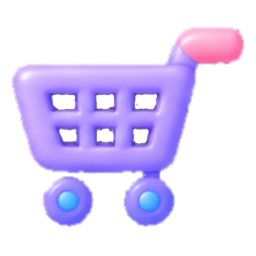
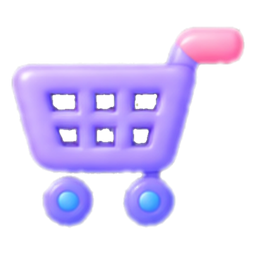
fix: アイコンの欠け修正（玉・おにぎり・おもち等）

diff --git a/OHinasama.html b/OHinasama.html
@@ -175,7 +175,7 @@ img.svc-icon{width:44px;height:44px;object-fit:contain;display:block;margin:0 au
 <div class="app">
   <div class="topbar">
     <div class="topbar-brand">OHinasama</div>
-    <span style="cursor:pointer;display:flex;" onclick="openStaff()"><img src="icons/site/lock.png?v=3" alt="スタッフ" style="width:30px;height:30px;"></span>
+    <span style="cursor:pointer;display:flex;" onclick="openStaff()"><img src="icons/site/lock.png?v=4" alt="スタッフ" style="width:30px;height:30px;"></span>
   </div>
   <div class="scroll-area">
     <div id="p-home" class="page active">
@@ -184,12 +184,12 @@ img.svc-icon{width:44px;height:44px;object-fit:contain;display:block;margin:0 au
         <div class="deco" style="width:65px;height:65px;background:#b0a0f0;bottom:0;left:-10px;"></div>
         <div class="logo-ring"><img src="icons/site/paw.png?v=2" alt="" style="width:50px;height:50px;object-fit:contain;"></div>
         <div class="brand-hero">OHinasama</div>
-        <div class="tagline">ふわふわスクイーズの専門ショップ <img class="ico" src="icons/site/sakura.png?v=3" alt=""></div>
+        <div class="tagline">ふわふわスクイーズの専門ショップ <img class="ico" src="icons/site/sakura.png?v=4" alt=""></div>
       </div>
       <div class="divider"></div>
-      <div class="sec-title"><img class="ico" src="icons/site/tulip.png?v=3" alt=""> OHinasamaについて</div>
+      <div class="sec-title"><img class="ico" src="icons/site/tulip.png?v=4" alt=""> OHinasamaについて</div>
       <div class="bubble"><p>OHinasamaは、<strong>スクイーズ（やわらかくてもちもちのおもちゃ）</strong>を専門に扱うショップです。<br><br>お買い物は<strong>ライブ配信</strong>でおこないます。リアルタイムでかわいいスクイーズたちをご覧いただけます！🎥✨</p></div>
-      <div class="sec-title"><img class="ico" src="icons/site/ribbon.png?v=3" alt=""> サービス内容</div>
+      <div class="sec-title"><img class="ico" src="icons/site/ribbon.png?v=4" alt=""> サービス内容</div>
       <div class="svc-grid">
         <div class="svc-card"><img class="svc-icon" src="icons/site/camera.png?v=2" alt=""><div class="svc-name">ライブ配信</div><div class="svc-desc">リアルタイムでスクイーズをご覧いただけます！</div></div>
         <div class="svc-card"><img class="svc-icon" src="icons/site/paw.png?v=2" alt=""><div class="svc-name">スクイーズ販売</div><div class="svc-desc">ふわふわもちもちのスクイーズをたくさんご用意！</div></div>
@@ -204,19 +204,19 @@ img.svc-icon{width:44px;height:44px;object-fit:contain;display:block;margin:0 au
       <div class="flow-box"><div class="step-num">3</div><div class="step-text"><strong>お気に入りをお選び</strong><br>気になるスクイーズを教えてね💕</div></div>
       <div class="arr">▼</div>
       <div class="flow-box"><div class="step-num">4</div><div class="step-text"><strong>お支払い &amp; お届け</strong><br>確認が終わったらお届けします🎁</div></div>
-      <div style="margin-top:1rem;" class="sec-title"><img class="ico" src="icons/site/clipboard.png?v=3" alt=""> ショップ情報</div>
+      <div style="margin-top:1rem;" class="sec-title"><img class="ico" src="icons/site/clipboard.png?v=4" alt=""> ショップ情報</div>
       <div class="info-row"><span style="font-size:1.1rem;">🕐</span><div class="info-text"><strong>営業時間</strong>お問い合わせ時にご確認ください</div></div>
       <div class="info-row"><span style="font-size:1.1rem;">🎥</span><div class="info-text"><strong>販売方法</strong>ライブ配信でのみ対応しております</div></div>
-      <div class="info-row"><img src="icons/site/sakura.png?v=3" alt="" style="width:22px;height:22px;"><div class="info-text"><strong>ご注意</strong>予約制ではありません。お気軽にご連絡ください♪</div></div>
+      <div class="info-row"><img src="icons/site/sakura.png?v=4" alt="" style="width:22px;height:22px;"><div class="info-text"><strong>ご注意</strong>予約制ではありません。お気軽にご連絡ください♪</div></div>
       <div class="ftr">
         <div class="ftr-logo">OHinasama</div>
-        <div style="font-size:0.66rem;color:#b3a9d9;margin-top:0.3rem;">ふわふわスクイーズ専門ショップ <img class="ico" src="icons/site/sakura.png?v=3" alt=""></div>
+        <div style="font-size:0.66rem;color:#b3a9d9;margin-top:0.3rem;">ふわふわスクイーズ専門ショップ <img class="ico" src="icons/site/sakura.png?v=4" alt=""></div>
         <div style="font-size:0.62rem;color:#b3a9d9;margin-top:0.2rem;">© OHinasama All rights reserved.</div>
       </div>
     </div>
     <div id="p-squeeze" class="page">
       <div class="sec-title" style="margin-top:0.3rem;">🧸 スクイーズ一覧</div>
-      <div class="sq-banner"><img src="icons/site/fire.png?v=3" alt="" style="width:34px;height:34px;"><div class="sq-banner-text">大人気のため現在ほぼ完売中！<br><span style="font-weight:400;font-size:0.7rem;color:#7a68d8;">ライブ配信でのみ購入できます</span></div></div>
+      <div class="sq-banner"><img src="icons/site/fire.png?v=4" alt="" style="width:34px;height:34px;"><div class="sq-banner-text">大人気のため現在ほぼ完売中！<br><span style="font-weight:400;font-size:0.7rem;color:#7a68d8;">ライブ配信でのみ購入できます</span></div></div>
       <div class="sq-grid" id="sq-grid"></div>
     </div>
     <div id="p-notice" class="page">
@@ -245,13 +245,13 @@ img.svc-icon{width:44px;height:44px;object-fit:contain;display:block;margin:0 au
   </div>
 </div>
 
-<button class="fav-float" onclick="openFavs()"><img src="icons/site/heart_red.png?v=3" alt="お気に入り" style="width:30px;height:30px;"><span class="fav-count" id="fav-count">0</span></button>
+<button class="fav-float" onclick="openFavs()"><img src="icons/site/heart_red.png?v=4" alt="お気に入り" style="width:30px;height:30px;"><span class="fav-count" id="fav-count">0</span></button>
 
 <div class="fav-overlay" id="fav-overlay" onclick="favOutsideClose(event)">
   <div class="fav-sheet">
     <div class="handle"></div>
     <div style="display:flex;justify-content:space-between;align-items:center;margin-bottom:1rem;">
-      <div style="font-size:0.95rem;font-weight:600;color:#7a68d8;"><img class="ico" src="icons/site/heart_red.png?v=3" alt=""> お気に入り</div>
+      <div style="font-size:0.95rem;font-weight:600;color:#7a68d8;"><img class="ico" src="icons/site/heart_red.png?v=4" alt=""> お気に入り</div>
       <button class="closebtn" onclick="closeFavs()">✕</button>
     </div>
     <div id="fav-list"></div>
@@ -262,11 +262,11 @@ img.svc-icon{width:44px;height:44px;object-fit:contain;display:block;margin:0 au
   <div class="sheet" id="sheet">
     <div class="handle"></div>
     <div style="display:flex;justify-content:space-between;align-items:center;margin-bottom:0.9rem;">
-      <div style="font-size:0.92rem;font-weight:600;color:#7a68d8;"><img class="ico" src="icons/site/lock.png?v=3" alt=""> スタッフ専用</div>
+      <div style="font-size:0.92rem;font-weight:600;color:#7a68d8;"><img class="ico" src="icons/site/lock.png?v=4" alt=""> スタッフ専用</div>
       <button class="closebtn" onclick="closeStaff()">✕</button>
     </div>
     <div id="pw-area" class="pw-area">
-      <div style="margin-bottom:0.5rem;"><img src="icons/site/lock.png?v=3" alt="" style="width:56px;height:56px;"></div>
+      <div style="margin-bottom:0.5rem;"><img src="icons/site/lock.png?v=4" alt="" style="width:56px;height:56px;"></div>
       <div class="pw-ttl">スタッフ専用ページ</div>
       <div class="pw-sub">パスワードを入力してください</div>
       <input class="pw-inp" type="password" id="pw-inp" placeholder="••••••" onkeydown="if(event.key==='Enter')checkPw()">
@@ -275,7 +275,7 @@ img.svc-icon{width:44px;height:44px;object-fit:contain;display:block;margin:0 au
     </div>
     <div class="sdash" id="sdash">
       <div style="display:flex;justify-content:space-between;align-items:center;margin-bottom:0.8rem;">
-        <div style="font-size:0.88rem;font-weight:600;color:#7a68d8;"><img class="ico" src="icons/site/ribbon.png?v=3" alt=""> スタッフページ</div>
+        <div style="font-size:0.88rem;font-weight:600;color:#7a68d8;"><img class="ico" src="icons/site/ribbon.png?v=4" alt=""> スタッフページ</div>
         <button class="logbtn" onclick="logout()">ログアウト</button>
       </div>
       <div class="stabs">
@@ -390,7 +390,7 @@ const PW='ohina0000';
 const ICONS={'🏠':'home','🧸':'paw','🔔':'mail','🔍':'search','📅':'calendar','🎥':'camera','✨':'sparkle','💬':'chat','❤':'heart_red','❤':'heart_red','🤍':'heart_white','🔒':'lock','🎀':'ribbon','🌷':'tulip','🌸':'sakura','📋':'clipboard','🔥':'fire','🕐':'clock','💕':'hearts','🎁':'gift','🍱':'bento','🍬':'candy','🐾':'paw_purple','🔵':'ball','🍙':'onigiri','🍞':'bread','🍡':'mochi_pink','🍥':'mochi_white','🧁':'cupcake','🛒':'cart'};
 // 「絵をえらぶ」に並べる順番（本人の最新シートの順）
 const PICK=['🏠','🧸','🔔','🔍','📅','🎥','✨','💬','❤','🤍','🔒','🎀','🌷','🌸','📋','🔥','🕐','💕','🎁','🍱','🍬','🐾','🔵','🍙','🍞','🍡','🍥','🧁','🛒'];
-const ICON_VER='3';
+const ICON_VER='4';
 const ICON_RE=new RegExp('('+Object.keys(ICONS).sort((a,b)=>b.length-a.length).map(e=>e.replace(/[.*+?^${}()|[\]\\]/g,'\\$&')).join('|')+')','g');
 const ICON_SKIP=new Set(['SCRIPT','STYLE','OPTION','SELECT','TEXTAREA','INPUT','TITLE']);
 function iconify(root){
@@ -460,7 +460,7 @@ function sqCard(s){
   if(isSoldOut)stockHtml='<div class="sq-sold">🔥 完売しました</div>';
   else if(s.disp_stock>0)stockHtml=`<div class="sq-stock">📦 残り${s.disp_stock}個</div>`;
   else if(!canBuy)stockHtml='<div class="sq-sold">🔥 人気につき完売中</div>';
-  const favBtn=`<button class="fav-btn" onclick="toggleFav(${s.id})"><img src="icons/site/${isFav?'heart_red':'heart_white'}.png?v=3" alt="" style="width:22px;height:22px;display:block;"></button>`;
+  const favBtn=`<button class="fav-btn" onclick="toggleFav(${s.id})"><img src="icons/site/${isFav?'heart_red':'heart_white'}.png?v=4" alt="" style="width:22px;height:22px;display:block;"></button>`;
   return`<div class="${cardClass}">${nb}${saleBadge}${favBtn}<span class="sq-emoji">${s.emoji}</span><div class="sq-name">${s.name}</div>${priceHtml}${stockHtml}<button class="${btnClass}" ${btnClick}><span class="buy-btn-inner">${canBuy?'✨ 購入する':'購入する'}</span></button></div>`;
 }
 function renderSq(){
